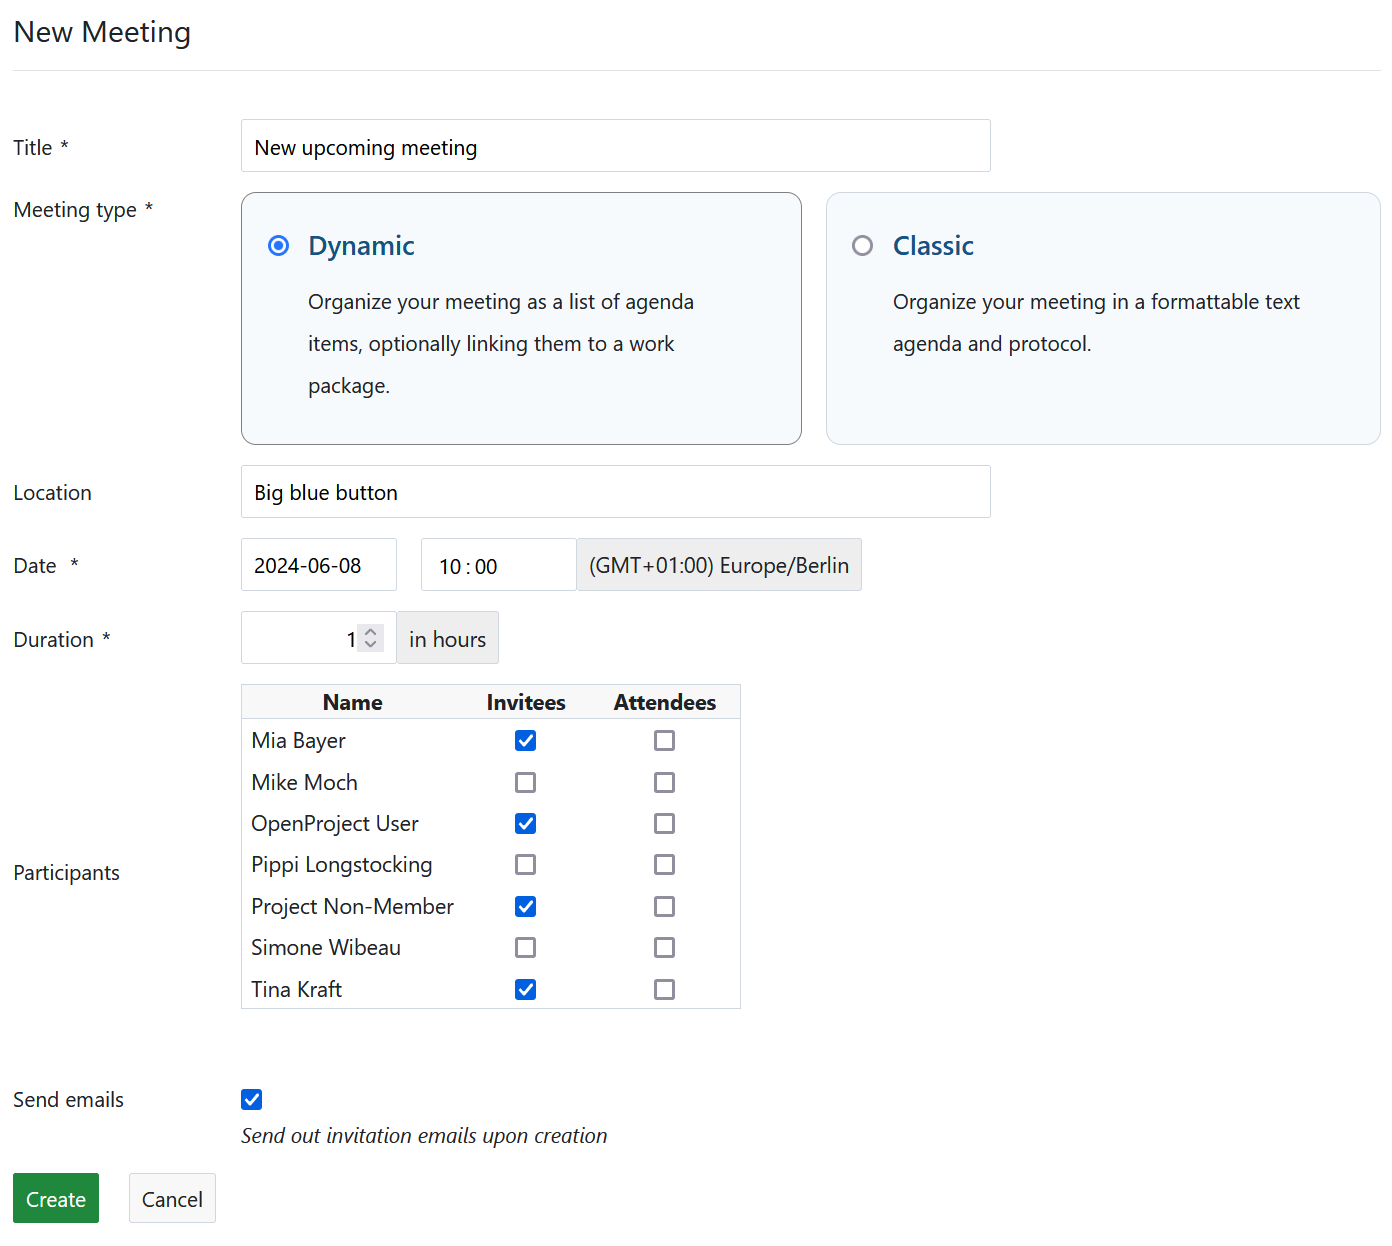
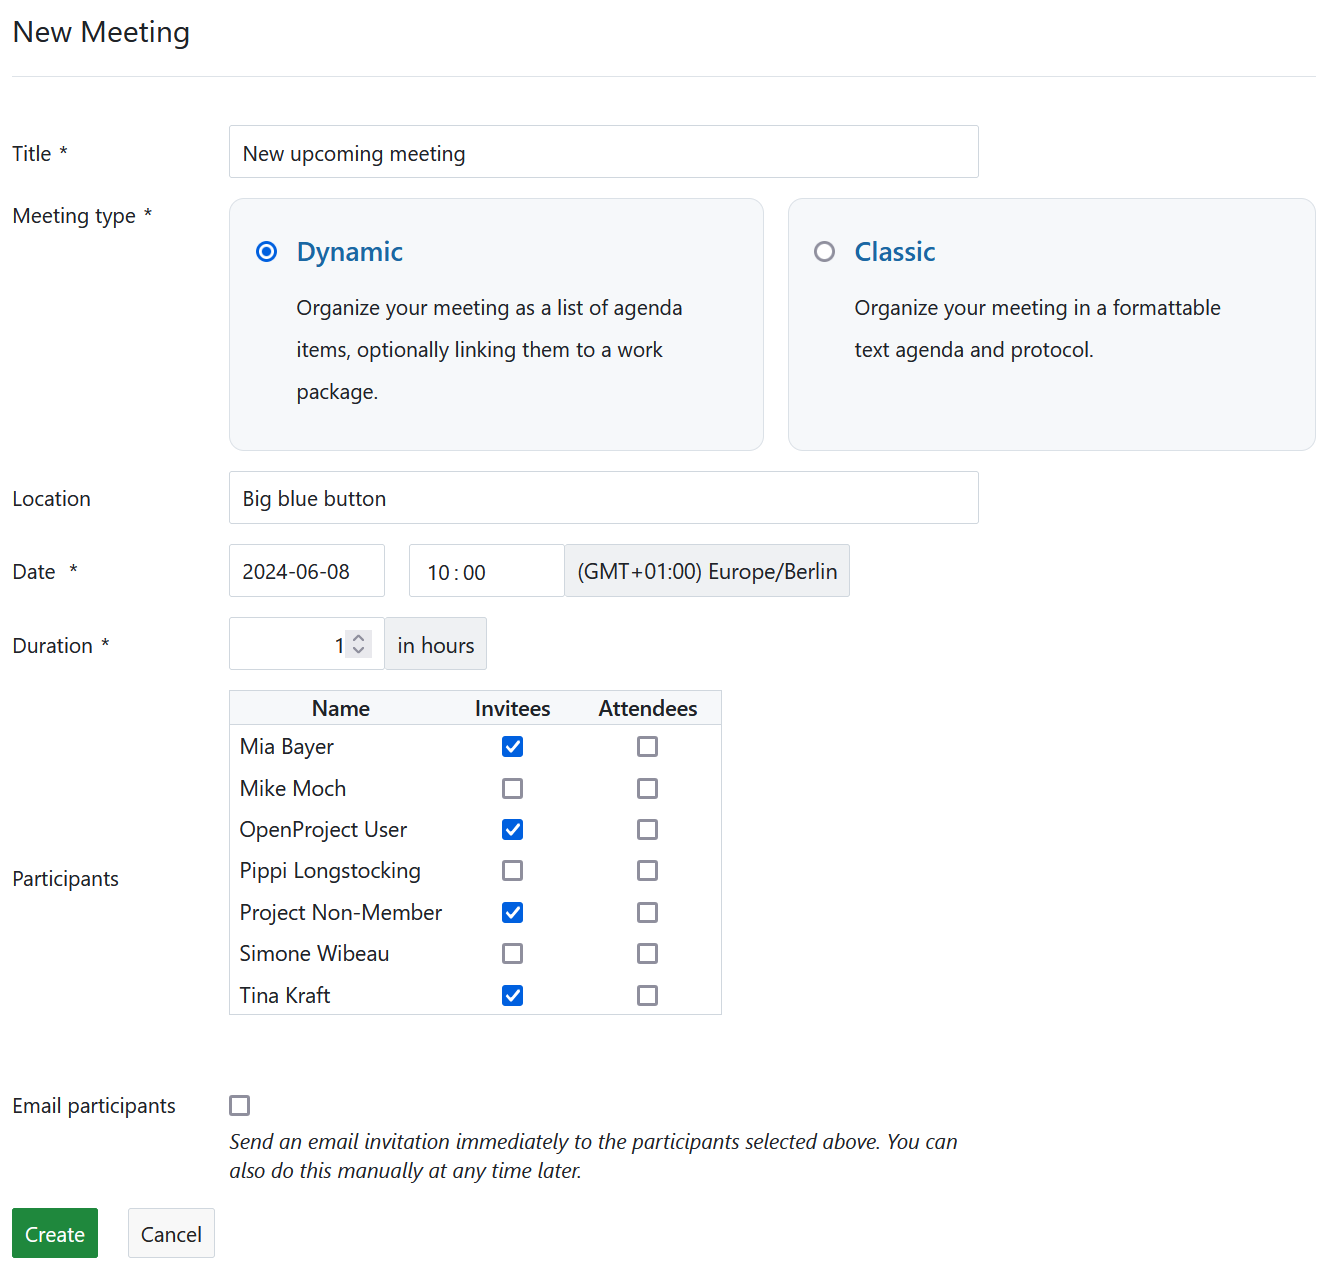
[#56636] 14.5 Documentation: Meetings module changes  https://community.openproject.org/work_packages/56636
[#56636] 14.5 Documentation: Meetings module changes

https://community.openproject.org/work_packages/56636

diff --git a/docs/user-guide/meetings/dynamic-meetings/README.md b/docs/user-guide/meetings/dynamic-meetings/README.md
@@ -55,7 +55,7 @@ To create a new meeting, click the green **+ Meeting** button in the upper right
 
 ![Create new meeting in OpenProject](openproject_userguide_create_new_meeting.png)
 
-Enter your meeting's title, type, location, start date and duration. You can also choose if you want to invite meeting participants via email after the meeting has been created (this option is activated by default). 
+Enter your meeting's title, type, location, start date and duration. You can also choose if you want to invite meeting participants via email after the meeting has been created (this option is disabled by default). 
 
 If you are creating a meeting from a global module you will first need to select a project to which the meeting is attributed. After you have selected a project, the list of potential participants (project members) will appear for you to select who to invite. After the meeting you can note who attended the meeting.
 
@@ -124,6 +124,9 @@ If you select the **Agenda item** option, you can name that item, add notes, set
 By default, when creating an agenda item, this will be pre-filled with the name of the user adding the agenda item, but it can either be removed or replaced by one of the other meeting participants.
 
 ![Add agenda item](openproject_userguide_add_agenda_item.png)
+
+> [!TIP]
+> If you need to store the agenda outside of OpenProject, you can generate an optimized PDF using the print function (Ctrl/Cmd + P).
 
 #### Link a work package to a meeting
 
